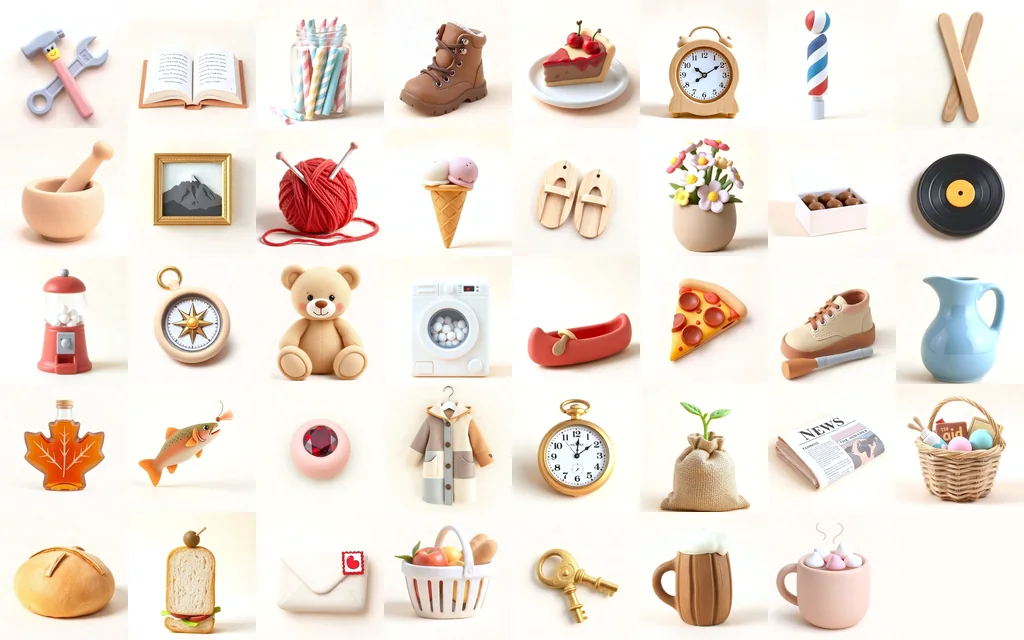
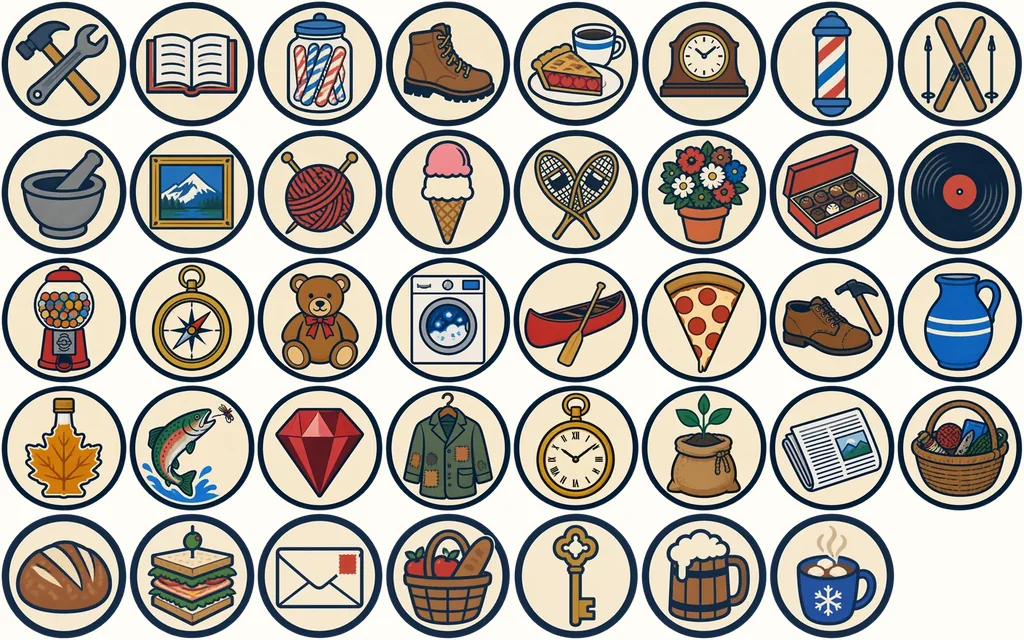
Shop signs printed flat, like the world they hang in
The pictures over shop doors were soft little models on cream. They are
now round painted signs with a navy ring, printed in the game's inks,
made a sheet at a time by the same tool as the patches, to a brief of
their own. Same 39 signs, in the same places.

Claude-Session: https://claude.ai/code/session_01KCD8wfrosBJ66eR6mMCCUF

diff --git a/CLAUDE.md b/CLAUDE.md
@@ -532,8 +532,13 @@ Everything else is built in code from simple shapes.
   each and the look a set shares; `make-art.mjs` asks for whatever is missing, trims it and
   saves a small WebP under `public/art/`. `--redo id,id --bump 1` paints one again with another
   seed. Portraits are gouache plates (`LOOK`); postcards are flat park-poster prints with no
-  lettering; the shop-sign pictures go onto one sheet (`public/art/shop-signs.webp`, with
-  `src/world/shopSignArt.ts` saying which is which).
+  lettering.
+- The pictures on the signs over shop doors are round painted signs, printed flat with a navy
+  ring, so that they belong to the world they hang in (the owner asked for this after seeing
+  the first ones, soft little models, on the phone). They are made a sheet at a time like the
+  patches, to a brief of their own (`SIGN_BRIEF`; `make-patches.mjs signs`, which keeps them
+  in the cache), and `make-art.mjs shops` lays them out on one sheet
+  (`public/art/shop-signs.webp`, with `src/world/shopSignArt.ts` saying which is which).
 - Everything in the Book that is had or found is an embroidered patch: stamps for finishing
   things, summit patches, conditions, lift pins, hats and jackets, bakes, sandwiches and books,
   minerals and the field guide. The owner asked for the patch and trail-map look throughout,

diff --git a/CREDITS.md b/CREDITS.md
@@ -24,9 +24,9 @@
 All of these were generated for this game from prompts kept in the repository. None names a
 real person, business or other game.
 
-- **Portraits, postcards, title pictures and shop-sign pictures:** FLUX.1 [schnell] (Black
-  Forest Labs) through [fal](https://fal.ai), from `tools/art/manifest.mjs`.
-- **Every patch in the Book** (stamps, summits, conditions, lift pins, things to wear, food and
+- **Portraits, postcards and title pictures:** FLUX.1 [schnell] (Black Forest Labs) through
+  [fal](https://fal.ai), from `tools/art/manifest.mjs`.
+- **The pictures on the shop signs, and every patch in the Book** (stamps, summits, conditions, lift pins, things to wear, food and
   books, minerals and the field guide): Tripo's image model, a sheet at a time, from the same
   manifest and `tools/art/make-patches.mjs`.
 - **The made models** (the field guide's animals, birds, plants and curiosities, and the dog
